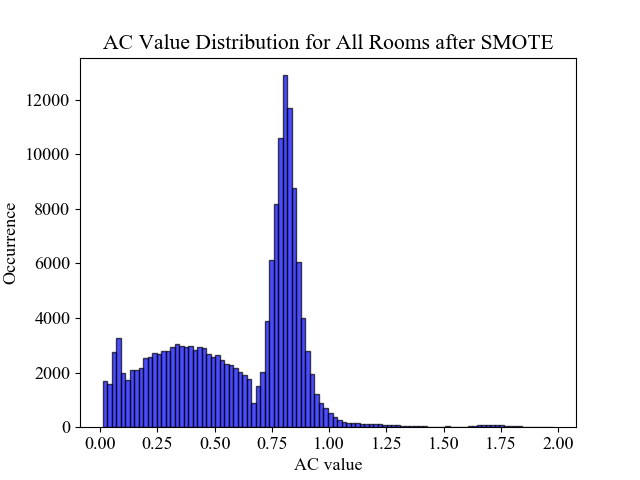
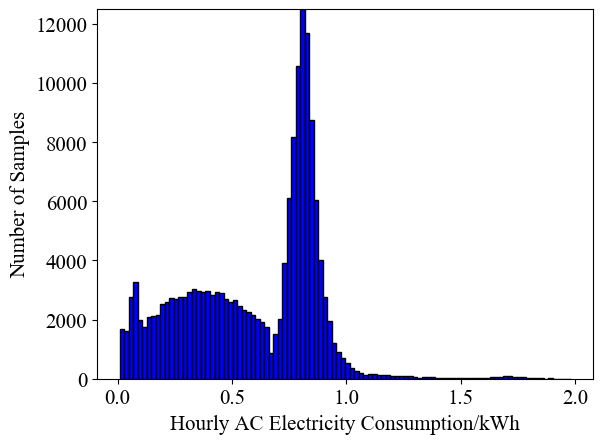
update SMOTE after and before

Changed region(s): [[0.0, 0.0, 0.9851, 0.9955]]

diff --git a/SMOTE_plot_demonstration.py b/SMOTE_plot_demonstration.py
@@ -22,7 +22,7 @@ data = pd.read_csv("summer_data_compiled.csv", index_col=0)
 data = data[data.AC > 0].drop(['Time', 'Date', 'Hour'], axis=1).reset_index(drop=True)
 
 # Set some general settings of all the matplotlib.
-plt.rcParams.update({'font.size': 13})
+plt.rcParams.update({'font.size': 15})
 plt.rc('font', family='Times New Roman')
 
 # Set up two empty list to record the AC before and after for each room
@@ -66,16 +66,16 @@ for room in tqdm(data['Location'].unique()):
     AC_after.extend(room_data_smote['AC'])
 
 # With the AC values in each room before and after the SMOTE, we can plot a distribution histogram for all rooms.
-plt.hist(AC_before, bins=100, facecolor="blue", edgecolor="black", alpha=0.7)
-plt.xlabel("AC value")
-plt.ylabel("Occurrence")
-plt.title("AC Value Distribution for All Rooms before SMOTE")
-plt.savefig('./SMOTE_before.png')
+plt.hist(AC_before, bins=100, facecolor="blue", edgecolor="black", align='mid')
+plt.xlabel("Hourly AC Electricity Consumption/kWh")
+plt.ylabel("Number of Samples")
+plt.ylim(ymax=12500, ymin=0)
+plt.savefig('./SMOTE_Before.png', bbox_inches='tight')
 plt.clf()
 
-plt.hist(AC_after, bins=100, facecolor="blue", edgecolor="black", alpha=0.7)
-plt.xlabel("AC value")
-plt.ylabel("Occurrence")
-plt.title("AC Value Distribution for All Rooms after SMOTE")
-plt.savefig('./SMOTE_after.png')
+plt.hist(AC_after, bins=100, facecolor="blue", edgecolor="black", align='mid')
+plt.xlabel("Hourly AC Electricity Consumption/kWh")
+plt.ylabel("Number of Samples")
+plt.ylim(ymax=12500, ymin=0)
+plt.savefig('./SMOTE_After.png', bbox_inches='tight')
 plt.clf()

diff --git a/README.md b/README.md
@@ -32,7 +32,7 @@ training. Each room's model has been boosted for 300 rounds under 10 folds of cr
 the [SMOTE](https://doi.org/10.1613/jair.953) algorithm to help with the imbalance distribution of the data.
 
 Here is a simple demonstration of the data distribution before the [SMOTE](https://doi.org/10.1613/jair.953) algorithm.
-![SMOTE_before](SMOTE_before.png)
+![SMOTE_before](SMOTE_Before.png)
 
 After the [SMOTE](https://doi.org/10.1613/jair.953) algorithm, the distribution for AC below or above 0.7 is balanced.
 ![SMOTE_after](SMOTE_After.png)
